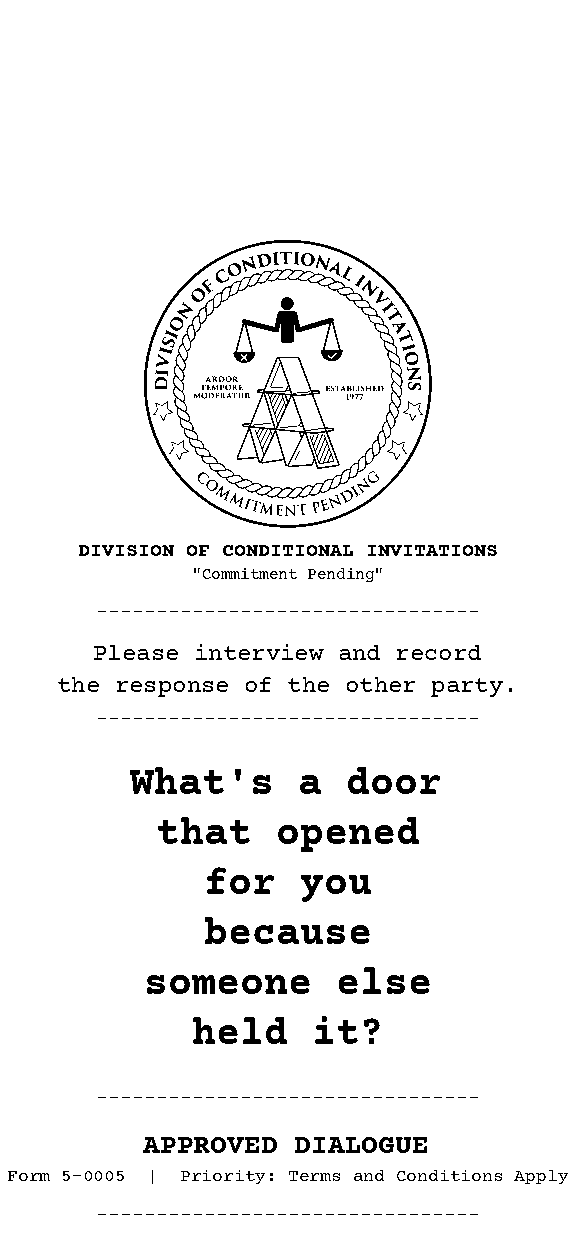
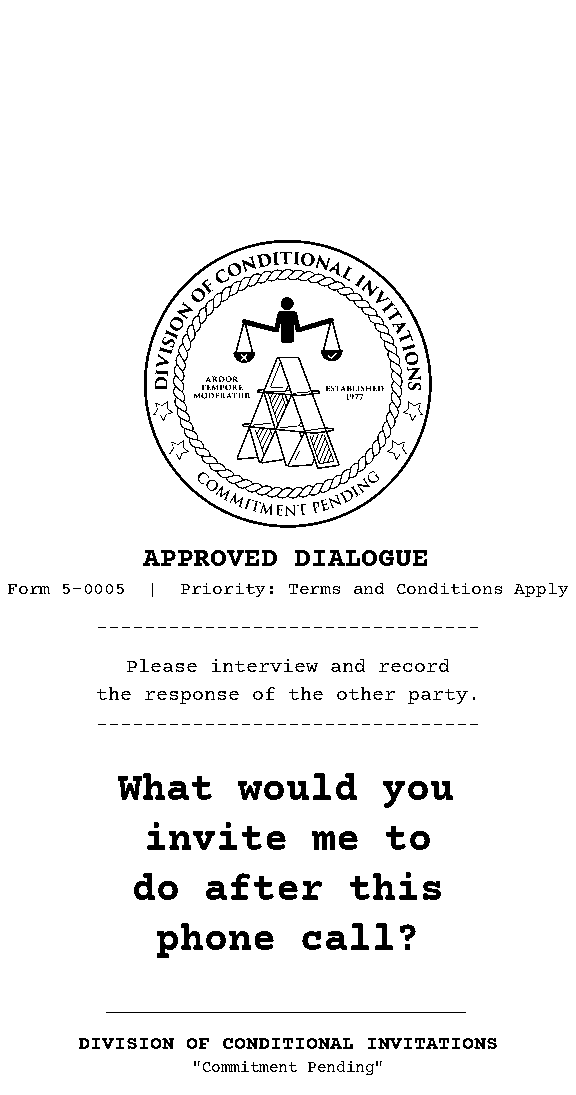
Re-render receipt previews and fix department names
The committed previews in scripts/output/ predated the header/footer
swap in _compose_dispatch, so they still showed the department name at
the top and APPROVED DIALOGUE at the bottom.

Also corrects four department names in CLAUDE.md to match
assets/departments.yaml, which is what the seals and receipts use.

diff --git a/CLAUDE.md b/CLAUDE.md
@@ -156,11 +156,11 @@ For development without hook switches connected. Keyboard input simulates cradle
 |---|---|
 | apathy | Bureau of Apathy (test only) |
 | ambient_belonging | Bureau of Ambient Belonging |
-| acceptable_proximity | Dept of Acceptable Proximity |
+| acceptable_proximity | Office of Acceptable Proximity |
 | conditional_invitations | Division of Conditional Invitations |
-| deferred_enthusiasm | Office of Deferred Enthusiasm |
-| minimal_engagement | Bureau of Minimal Engagement |
-| polite_indifference | Agency of Polite Indifference |
+| deferred_enthusiasm | Commission on Deferred Enthusiasm |
+| minimal_engagement | Administration for Minimal Engagement |
+| polite_indifference | Department of Polite Indifference |
 
 Stored as plain text files in `assets/prompts/`, one question per line. Each department has a matching seal image in `assets/images/` and metadata in `assets/departments.yaml`.
 
